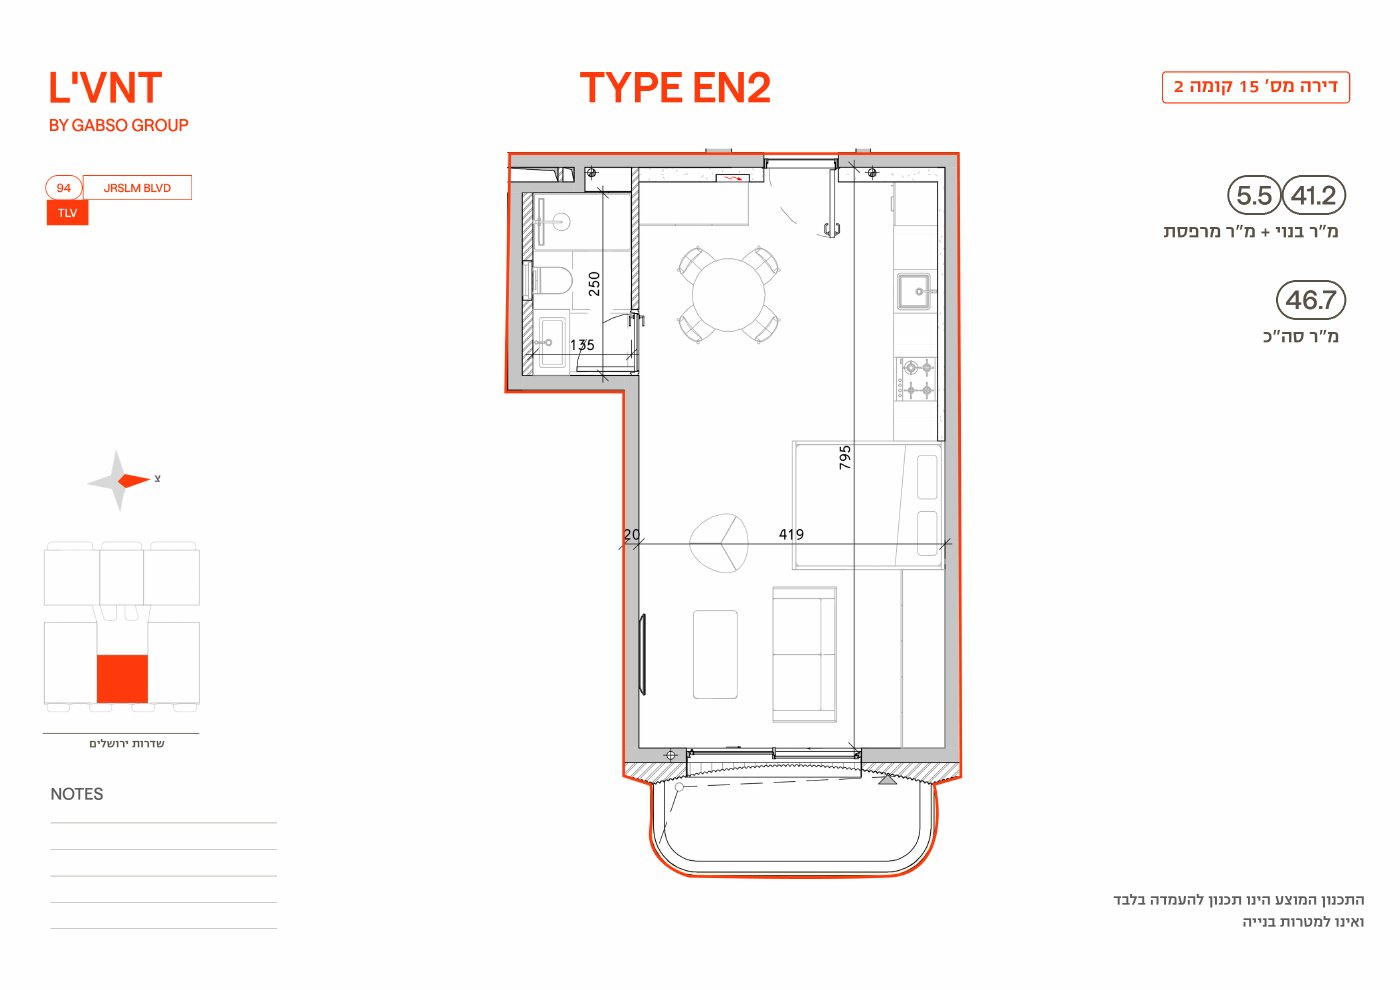
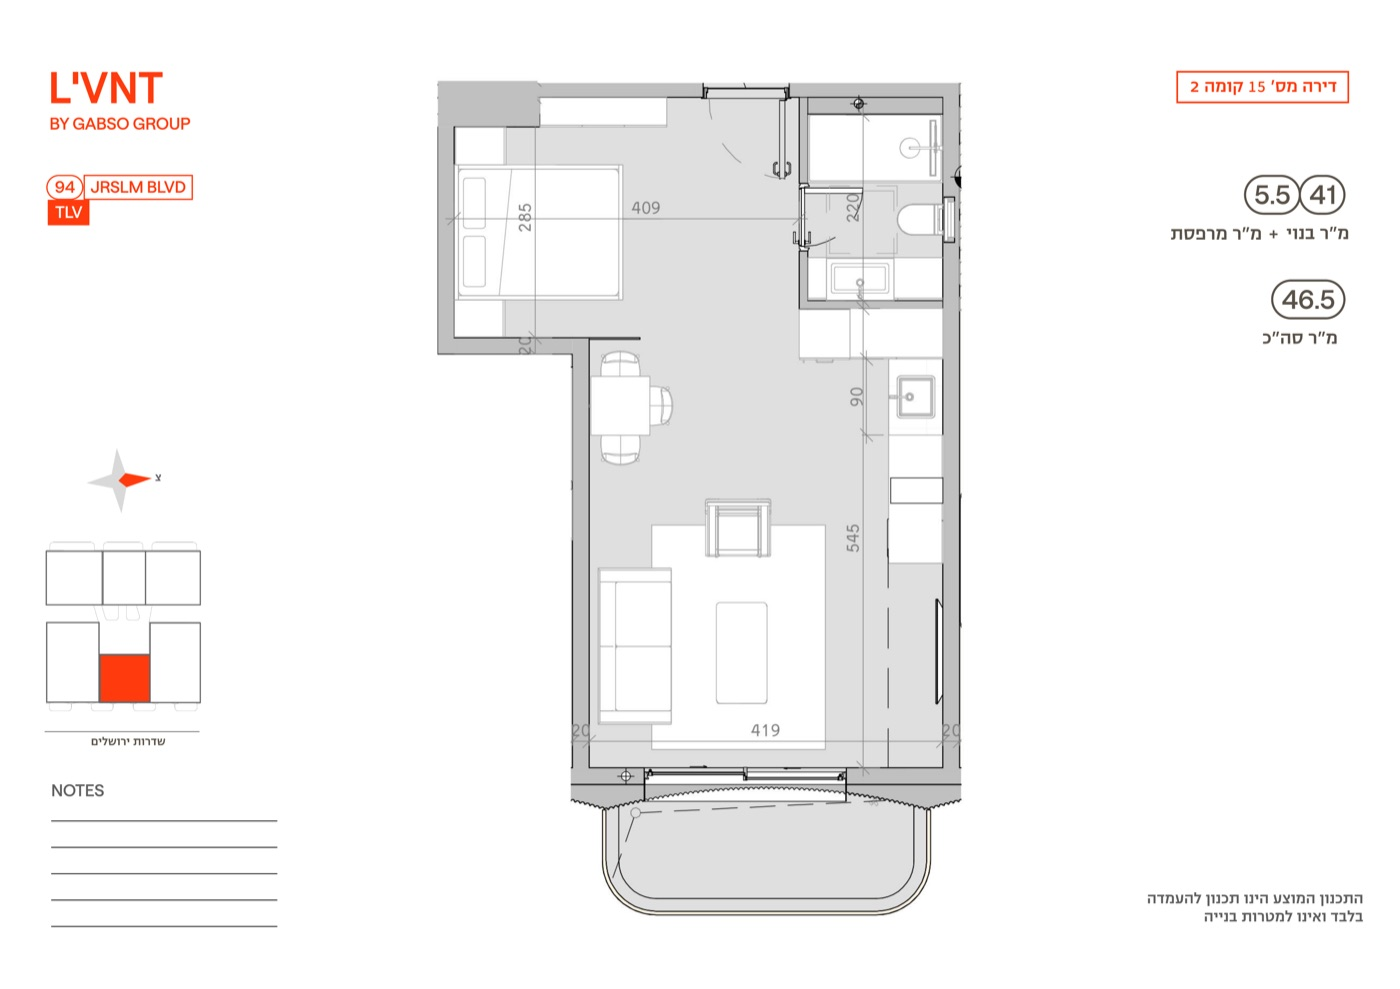
Apt 15: new plan image + ?v= cache-bust (PLANV)

diff --git a/index.html b/index.html
@@ -790,9 +790,9 @@ if(dia)Object.keys(APT_RECT).forEach(k=>{const n=+k;const r=APT_RECT[n];const st
   else{const b=document.createElement('button');b.className='dia-hot';b.dataset.n=n;b.style.cssText=st;b.setAttribute('aria-label','דירה '+n);dia.appendChild(b);}});
 const modal=document.getElementById('aptModal');
 // one plan image per apartment (from "תוכניות כל הדירות - מאוחד.pdf"); the old plans2/page-NN were per model, so every W unit showed apt 12's sheet
-const PLAN3=new Set([1,2,3,4,5,8,9,11,12,13,15,16,18,19,20,22,24,25,26,28,30,31,32,34,35,37,38,39,41,43,44,45,46]);
+const PLAN3=new Set([1,2,3,4,5,8,9,11,12,13,15,16,18,19,20,22,24,25,26,28,30,31,32,34,35,37,38,39,41,43,44,45,46]);const PLANV={15:'20261012'};/* plan replaced → bust Cloudflare cache (Dan 12.10.26) */
 function openApt(n){const a=APT[n];const planImg=document.getElementById('aptPlan');const planWrap=planImg.parentElement;planWrap.classList.remove('zoomed');planWrap.scrollTop=0;planWrap.scrollLeft=0;let np=planWrap.querySelector('.noplan');
-  if(PLAN3.has(+n)){planImg.removeAttribute('src');planWrap.classList.add('loading');planImg.onload=()=>planWrap.classList.remove('loading');planImg.src='assets/plans3/apt-'+n+'.jpg';planImg.style.display='';if(np)np.remove();}
+  if(PLAN3.has(+n)){planImg.removeAttribute('src');planWrap.classList.add('loading');planImg.onload=()=>planWrap.classList.remove('loading');planImg.src='assets/plans3/apt-'+n+'.jpg'+(PLANV[+n]?'?v='+PLANV[+n]:'');planImg.style.display='';if(np)np.remove();}
   else{planImg.removeAttribute('src');planImg.style.display='none';if(!np){np=document.createElement('div');np.className='noplan';np.textContent='התוכנית זמינה במשרד המכירות';planWrap.appendChild(np);}}
   document.getElementById('aptTitle').textContent='דירה '+n;
   const wing=a?(a.w==='חזית'?'חזית — שדרות ירושלים':'עורף — נוף למערב'):'';
